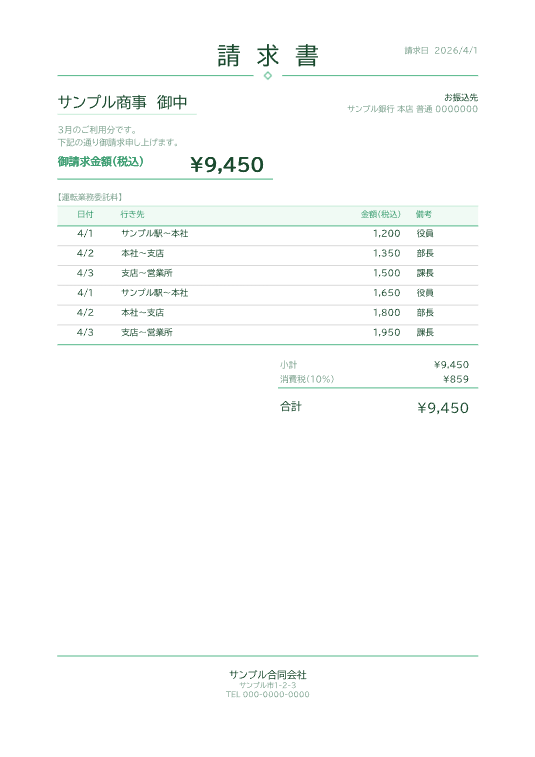
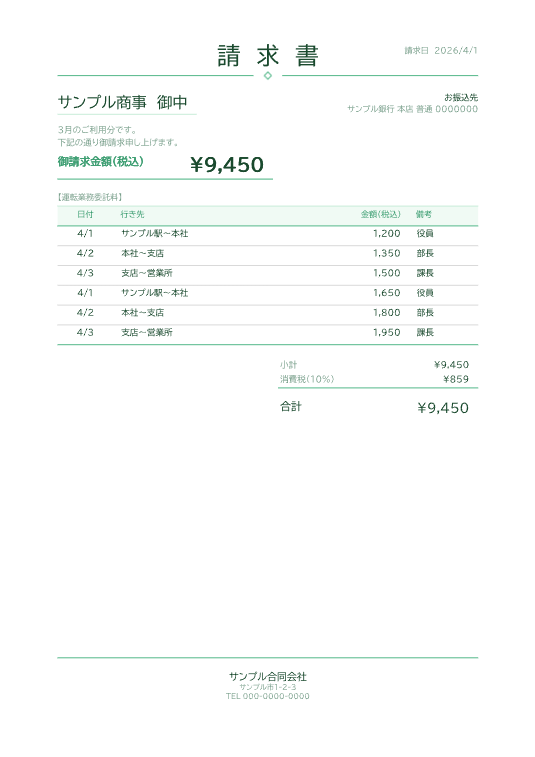
請求書: ロゴを大きく（エレガント=フッターで1.3倍/上限拡大、クラシック=右上1.15倍/高さ32mm）

Changed region(s): [[0.1196, 0.8507, 0.8972, 0.9419]]

diff --git a/invoice-pdf.js b/invoice-pdf.js
@@ -432,24 +432,28 @@
     function drawFooter(page) {
       var nL = iLines.length || 1;
       var issH = nL > 0 ? 13 + (nL - 1) * 10 : 0; // 自社情報ブロック高さ
-      var blockH = Math.max(issH, 20);
-      var FOOT = 80 + blockH; // 線のy（ブロック＋下マージン80の上）。多行ほど上がる＝あふれない
-      line(page, M, FOOT, RXp, FOOT, MINT, 0.9); // 下の長い緑の線
-      var y0 = FOOT - 16; // 線のすぐ下＝自社情報の先頭
-      // ロゴ＝右端に固定（位置は動かさない）。ロゴ画像があるときだけ。
+      // ロゴ寸法（エレガントの基準＝大きめ。logoSizeMm を 1.3倍で効かせ、上限も大きく）。
+      var logoW = 0,
+        logoH = 0;
       if (showLogo) {
-        var lw = Math.min((Number(iss && iss.logoSizeMm) || 40) * MM, 130),
-          asp = logo.width / logo.height,
-          lh = lw / asp;
-        if (lh > 46) {
-          lh = 46;
-          lw = lh * asp;
+        var asp = logo.width / logo.height;
+        logoW = Math.min((Number(iss && iss.logoSizeMm) || 40) * MM * 1.3, 165);
+        logoH = logoW / asp;
+        if (logoH > 74) {
+          logoH = 74;
+          logoW = logoH * asp;
         }
-        var logoY = y0 - issH / 2 + lh / 2;
-        page.drawImage(logo, { x: RXp - lw, y: logoY - lh, width: lw, height: lh });
       }
-      // 自社情報（中央揃え・ページ中央・線のすぐ下）
-      var fy = y0;
+      var blockH = Math.max(issH, logoH, 20);
+      var FOOT = 78 + blockH; // 線のy（ブロック＋下マージンの上）。ロゴ/多行ほど上がる＝あふれない
+      line(page, M, FOOT, RXp, FOOT, MINT, 0.9); // 下の長い緑の線
+      var topY = FOOT - 16; // 線のすぐ下
+      // ロゴ＝右端固定・上端を線のすぐ下から（大きく）
+      if (showLogo)
+        page.drawImage(logo, { x: RXp - logoW, y: topY - logoH, width: logoW, height: logoH });
+      // 自社情報（中央揃え・ページ中央）＝ブロック内で縦中央に
+      var textTop = topY - Math.max(0, (blockH - issH) / 2);
+      var fy = textTop;
       iLines.forEach(function (ln, idx) {
         T(page, font, ln, CX, fy, idx === 0 ? 11 : 8, {
           align: "center",
@@ -463,7 +467,7 @@
         var nameW = font.widthOfTextAtSize(_sanitize(iLines[0] || ""), 11);
         page.drawImage(hanko, {
           x: CX + nameW / 2 - hs * 0.45, // 社名末尾に重なる
-          y: y0 - hs + 9,
+          y: textTop - hs + 9,
           width: hs,
           height: hs,
           opacity: 0.95,
@@ -570,8 +574,9 @@
       var dateStr = "請求日　" + issueDateStr(month, iss && iss.dateEra);
       var noStr = iss && iss.showInvoiceNo && invoiceNo ? "No.　" + invoiceNo : "";
       if (style === "A" && logo && iss && iss.logoMode === "show") {
-        var maxW = (Number(iss.logoSizeMm) || 40) * MM,
-          maxH = 26 * MM;
+        // クラシックの基準＝右上ロゴをやや大きめに（logoSizeMm を1.15倍・高さ上限32mm）
+        var maxW = (Number(iss.logoSizeMm) || 40) * MM * 1.15,
+          maxH = 32 * MM;
         var asp = logo.width / logo.height;
         var lw0 = maxW,
           lh0 = maxW / asp;
